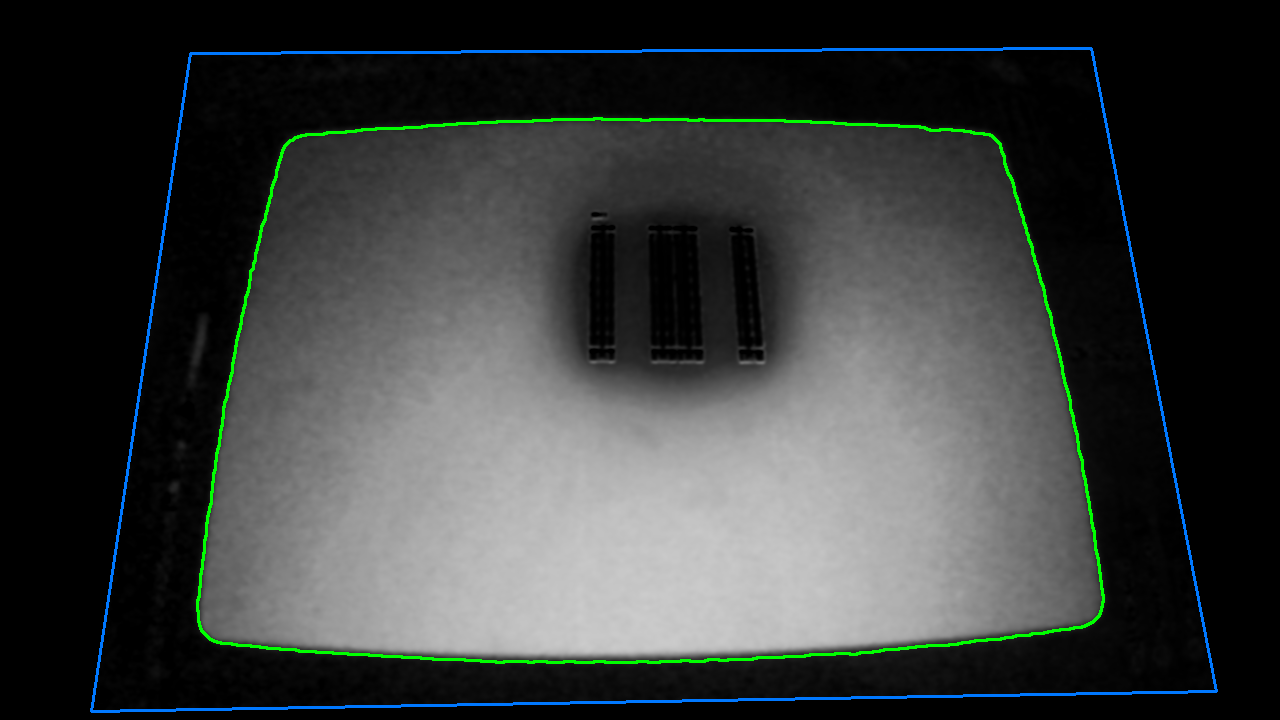
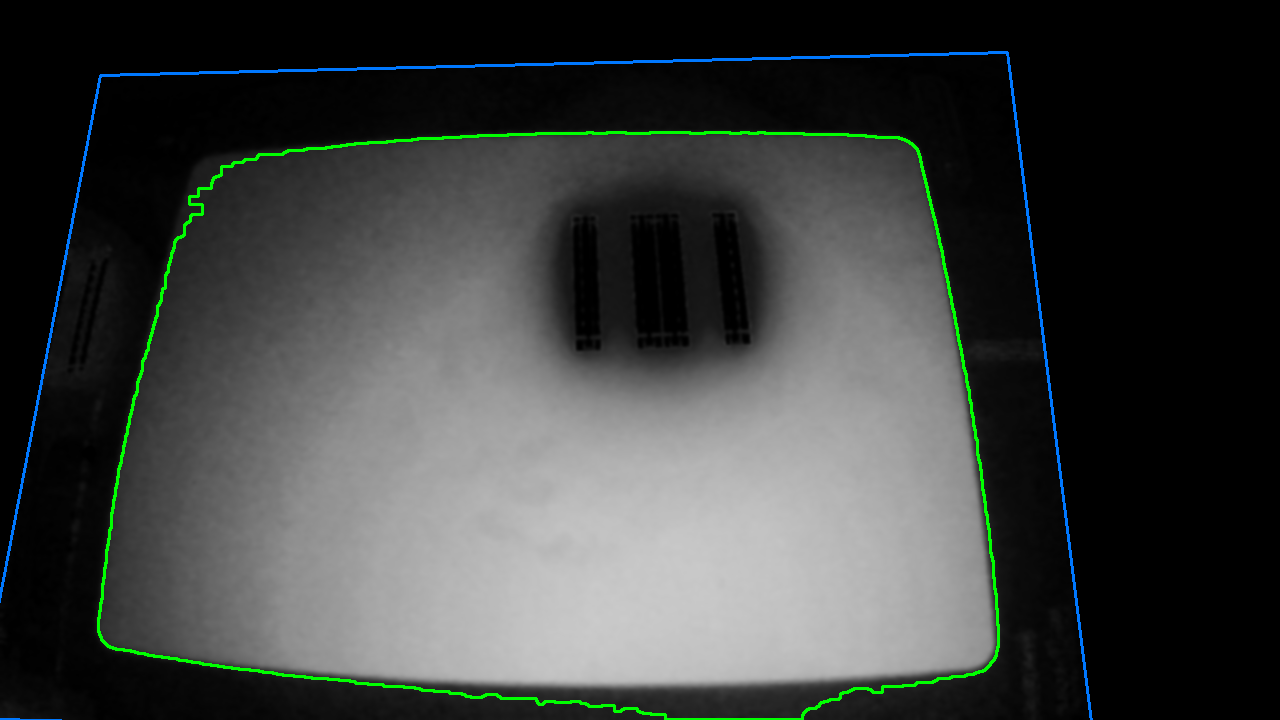
feature/added-magnet
Magneet toegevoegd in het speelveld voor extra uitdaging

Changed region(s): [[0.0625, 0.1528, 0.9375, 1.0], [0.4375, 0.275, 0.6562, 0.5806], [0.0625, 0.0611, 0.8438, 0.1222]]

diff --git a/People Manager/Low Fidelity/index.html b/People Manager/Low Fidelity/index.html
@@ -123,19 +123,19 @@ const W=792, H=1152, T=72;
 //  4: kort 420,180,0 · lang 140,380,15 · kort 580,820,30
 const ZONES=[
  {n:'Level 1',inv:{},spawn:[396,-10],
-  water:[],cps:[['c1',546,340],['c2',156,720],['c3',78,960]],
+  water:[],cps:[['c1',546,340],['c2',156,720],['c3',78,960]], mags:[[640,830,170]],
   walls:[[619,256,180,18,25],[527,616,120,18,0]],
   end:{r:[22,1040,300,90],n:'Finish',ic:'🏁'}},
  {n:'Level 2',inv:{},spawn:[396,-10],
-  water:[],cps:[['c1',246,340],['c2',636,720],['c3',714,960]],
+  water:[],cps:[['c1',246,340],['c2',636,720],['c3',714,960]], mags:[[152,830,170]],
   walls:[[174,255,180,18,-25],[212,499,120,18,0],[534,287,18,120,0]],
   end:{r:[470,1040,300,90],n:'Finish',ic:'🏁'}},
  {n:'Level 3',inv:{},spawn:[300,-10],
-  water:[],cps:[['c1',465,360],['c2',465,700],['c3',676,960]],
+  water:[],cps:[['c1',465,360],['c2',465,700],['c3',676,960]], mags:[[170,560,170]],
   walls:[[571,299,140,18,25],[430,577,18,120,0],[615,716,120,18,0]],
   end:{r:[470,1040,300,90],n:'Finish',ic:'🏁'}},
  {n:'Level 4',inv:{},spawn:[396,-10],
-  water:[],cps:[['c1',198,320],['c2',707,640],['c3',688,940]],
+  water:[],cps:[['c1',198,320],['c2',707,640],['c3',688,940]], mags:[[640,260,150],[200,860,170]],
   walls:[[640,560,160,18,0],[100,240,180,18,-25],[582,597,120,18,0],[168,460,200,18,0]],
   end:{r:[440,1040,300,90],n:'Finish',ic:'🏁'}}
 ];
@@ -156,11 +156,16 @@ const SOLID_PAD=6, BORDER=16; // SOLID_PAD: half the width of a person; BORDER: 
 // (glance: extra launch angle towards 90° for edge hits); every person gets its own height/speed/curve (vary).
 const BOUNCE={on:true, hop:340, gravity:800, curve:2.9, curveAngle:8, curveSpread:10, airSpeed:290, glance:55, vary:.1, border:.28}; // muisversie: iets meer bounce (was hop 260, curve 2.6, airSpeed 240, border .2); weinig willekeur (spread 10, vary .1) zodat een route voorspelbaar is
 const HOP_LIFT=.75; // how far a jumping person is drawn above their floor position (z * HOP_LIFT); used by drawing and checkpoints
+// Magnets (mags per level: [x, y, range]): pull every person within range towards the magnet, stronger the closer
+// they get (pull * (1 - d/range)^2 px/s). Whoever comes within `core` px is caught: sucked in and counted as verdwaald.
+// They lie off the intended routes, so a good route only gets bent a little; a stray person is caught.
+// index.html?nomagnets switches them off (for comparing / testing).
+const MAGNET={on:!/[?&]nomagnets\b/.test(location.search), pull:520, core:24, suck:.6};
 const GOAL=10, R_TRI=34, R_ROL=30, R_CUBE=30, R_CP=42, PLANK_L=160, PLANK_W=48;
 const SHIRTS=['#E8453C','#2F7FD1','#23A99A','#F2A100','#7A5CFA','#E8457A','#3A9D4E'];
 const SKIN=['#F2C9A0','#D9A27A','#A8704A','#7A4E2E','#F5D6B8'];
 // lastTouch=-1e9: de game start als inactief (wave blijft 1, geen meldingen) tot iemand iets doet
-let zoneArrived=0, zoneFull=0, zoneFill=[0,0,0], wave=null, solids=[], solidsVer=0, Z, zi, blocks, people, spawnT, tool=null, inv, cps, zoneT=0, totals, celebrate=0, lastTouch=-1e9, round=1, bid=0, bg=null, drag=null;
+let mags=[], zoneArrived=0, zoneFull=0, zoneFill=[0,0,0], wave=null, solids=[], solidsVer=0, Z, zi, blocks, people, spawnT, tool=null, inv, cps, zoneT=0, totals, celebrate=0, lastTouch=-1e9, round=1, bid=0, bg=null, drag=null;
 const cv=document.getElementById('cv'), $=id=>document.getElementById(id);
 // Rendering is done by Phaser (scene `Hall` below). The drawing helpers (stand, endpoint, entrance, wood, person, ...)
 // draw into `ctx`, which the scene points at the canvas of a Phaser texture while it builds that texture.
@@ -223,7 +228,7 @@ function knock(){ const c=ac(); if(!c) return; [0,.06].forEach((t,i)=>{ const o=
 document.querySelectorAll('.how .bi').forEach(el=>el.innerHTML=blockSVG(el.dataset.b));
 
 const rad=a=>a*Math.PI/180;
-function newTotals(){ return {score:0,out:0,lost:0,stray:0,cases:[],fill:[0,0,0],arenas:0,start:performance.now()}; }
+function newTotals(){ return {score:0,out:0,lost:0,stray:0,mag:0,cases:[],fill:[0,0,0],arenas:0,start:performance.now()}; }
 
 // Dark mode: dark floor, muted light surfaces (no large white areas: those would look like the white paper blocks).
 const DARK=!/[?&]light\b/.test(location.search);
@@ -239,9 +244,21 @@ function makeBg(){ // floor with seams, mats at start and finish
   const [sx]=Z.spawn, [ex,ey,ew,eh]=Z.end.r;
   g.fillStyle='#22344F'; g.fillRect(sx-70,0,140,80); g.beginPath(); g.roundRect(ex-26,ey-26,ew+52,eh+52,14); g.fill();
   g.strokeStyle='rgba(255,255,255,.12)'; g.lineWidth=2; g.strokeRect(sx-62,4,124,72);
+  for(const m of mags) drawMagnet(g,m);
   for(const w of solids) drawSolid(g,w); // field border and the level's walls (not white: the camera must not see them as blocks)
   return c;
 }
+function drawMagnet(g,m){ // range (faint purple disc + dashed edge) and a red horseshoe magnet; no white: the camera sees white as a block
+  g.save(); g.translate(m.x,m.y);
+  const rg=g.createRadialGradient(0,0,MAGNET.core,0,0,m.r); rg.addColorStop(0,'rgba(122,92,250,.28)'); rg.addColorStop(1,'rgba(122,92,250,0)');
+  g.fillStyle=rg; g.beginPath(); g.arc(0,0,m.r,0,7); g.fill();
+  g.strokeStyle='rgba(122,92,250,.45)'; g.lineWidth=2; g.setLineDash([6,8]); g.beginPath(); g.arc(0,0,m.r,0,7); g.stroke(); g.setLineDash([]);
+  g.fillStyle='rgba(0,0,0,.3)'; g.beginPath(); g.arc(2,4,MAGNET.core+4,0,7); g.fill();
+  g.fillStyle='#3A2F5E'; g.beginPath(); g.arc(0,0,MAGNET.core+4,0,7); g.fill();
+  g.lineCap='butt'; g.lineWidth=11; g.strokeStyle='#E8453C';
+  g.beginPath(); g.arc(0,-3,11,Math.PI,0); g.lineTo(11,10); g.moveTo(-11,-3); g.lineTo(-11,10); g.stroke();
+  g.fillStyle='#9AA3AF'; g.fillRect(-16.5,6,11,7); g.fillRect(5.5,6,11,7);
+  g.restore(); }
 function drawSolid(g,w){ // a wall: concrete-like strip with a lighter top edge and a small shadow
   g.save(); g.translate(w.x,w.y); g.rotate(w.ar);
   g.fillStyle='rgba(0,0,0,.25)'; g.fillRect(-w.hw+3,-w.hh+4,w.hw*2,w.hh*2);
@@ -287,19 +304,19 @@ function entrance(t){ const [sx]=Z.spawn;
   ctx.fillStyle='#9AA3AF'; [-40,0,40].forEach(dx=>{ ctx.fillRect(sx+dx-2,64,4,16); }); }
 function loadZone(i){ toastWave=null; /* new level: show the per-person messages again for its first played wave */
   zi=i; Z=ZONES[i]; blocks=[]; people=[]; spawnT=0; inv={...Z.inv}; zoneT=0; cps={}; zoneArrived=0; zoneFull=0; zoneFill=[0,0,0];
-  solids=buildSolids(); solidsVer++; bg=makeBg(); wave=newWave(1);
+  mags=MAGNET.on?(Z.mags||[]).map(([x,y,r])=>({x,y,r})):[]; solids=buildSolids(); solidsVer++; bg=makeBg(); wave=newWave(1);
   for(const [k,x,y] of Z.cps) cps[k]={x,y,n:0,done:false};
   $('zone').textContent=Z.n+(round>1?` · ronde ${round}`:''); renderTray(); renderCases();
   if(VIEW.scene) VIEW.scene.buildZone();
 }
-function newWave(no){ return {no, spawned:0, t:0, lastSpawn:0, pause:0, hits:{}, taken:{}, st:0, stats:{fill:[0,0,0],lost:0}}; }
+function newWave(no){ return {no, spawned:0, t:0, lastSpawn:0, pause:0, hits:{}, taken:{}, st:0, stats:{fill:[0,0,0],lost:0,mag:0}}; }
 function waveTick(dt){ // spawns the people of the current wave, then waits for them before the next wave
   if(wave.pause>0){ wave.pause-=dt; if(wave.pause<=0){ const idle=!isActive(); wave=newWave(idle?1:wave.no+1); for(const cp of Object.values(cps)){ cp.n=0; cp.done=false; } spawnT=0;  } return; }
   wave.t+=dt;
   if(wave.spawned<WAVE.size){ spawnT-=dt; while(spawnT<=0&&wave.spawned<WAVE.size){ if(!spawn()) { spawnT=.1; break; } wave.spawned++; wave.lastSpawn=wave.t; spawnT+=WAVE.every; } return; }
   if(!people.some(p=>p.W===wave)||wave.t-wave.lastSpawn>WAVE.maxWait){ const f=wave.stats.fill;
-    const res=wave.stats.lost?'is verdwaald':f[2]?'is vol aangekomen':f[1]?'is halfvol aangekomen':f[0]?'is leeg aangekomen':'is weg';
-    if(waveToasts(wave)) toast(`<i>🚶</i><div>Persoon ${res}<small>${f[2]?'Goed gedaan!':'Probeer alle 3 de checkpoints te halen'}</small></div>`);
+    const res=wave.stats.mag?'is door een magneet gegrepen':wave.stats.lost?'is verdwaald':f[2]?'is vol aangekomen':f[1]?'is halfvol aangekomen':f[0]?'is leeg aangekomen':'is weg';
+    if(waveToasts(wave)) toast(`<i>🚶</i><div>Persoon ${res}<small>${f[2]?'Goed gedaan!':wave.stats.mag?'Houd de route uit de buurt van de magneet':'Probeer alle 3 de checkpoints te halen'}</small></div>`);
     wave.pause=WAVE.pause; }
 }
 function inRect(x,y,[rx,ry,rw,rh]){ return x>=rx&&x<=rx+rw&&y>=ry&&y<=ry+rh; }
@@ -506,12 +523,23 @@ function flowMove(pp,dt){
     pp.a+=Math.max(-m,Math.min(m,d*Math.min(1,8*dt))); }
   pp.ph+=dt*Math.max(sp,15)/9;
 }
+// ---- Magnets ----
+function magnetPull(pp,dt){ // returns true when the person is caught
+  for(const m of mags){ const dx=m.x-pp.x, dy=m.y-pp.y, d=Math.hypot(dx,dy); if(d>m.r) continue;
+    if(d<MAGNET.core){ pp.mag=m; pp.magT=0; pp.z=0; pp.vz=0; pp.bounceCurve=0; tone(196,.25,'sawtooth',.03); return true; }
+    const k=1-d/m.r, v=MAGNET.pull*k*k*dt; pp.x+=dx/d*v; pp.y+=dy/d*v; }
+  return false; }
+function magnetSuck(pp,dt){ // caught: spirals into the magnet and disappears, counts as verdwaald
+  const m=pp.mag; pp.magT+=dt; const k=Math.min(1,dt*9); pp.x+=(m.x-pp.x)*k; pp.y+=(m.y-pp.y)*k; pp.ph+=dt*30;
+  pp.alpha=Math.max(0,1-pp.magT/MAGNET.suck);
+  if(pp.magT>=MAGNET.suck){ pp.gone=true; if(!isActive()) return; totals.lost++; totals.mag++; pp.W.stats.lost++; pp.W.stats.mag++; } }
 function update(dt){
   zoneT+=dt; waveTick(dt);
   if(FLOW.on) flowPrepare();
   for(const pp of people){
     if(pp.fall>0){ pp.fall+=dt; if(pp.fall>.8) pp.gone=true; continue; }
     if(celebrate>0){ pp.alpha-=dt*1.4; if(pp.alpha<=0){ pp.gone=true; continue; } }
+    if(pp.mag){ magnetSuck(pp,dt); continue; }
     if(FLOW.on) flowMove(pp,dt); else { // bounce movement (default): walk down, hop and curve off every wall
     if(pp.bounceCurve>0){
       pp.bounceCurve=Math.max(0,pp.bounceCurve-dt);
@@ -536,6 +564,7 @@ function update(dt){
       if(pp.z<=0){ pp.z=0; pp.landAt=performance.now(); pp.vz=0; } }
     if(pp.squash>0) pp.squash=Math.max(0,pp.squash-dt*4);
     }
+    if(magnetPull(pp,dt)) continue;
     for(const [k,cp] of Object.entries(cps)) if(!pp.seen[k] && atCheckpoint(pp,cp)){ pp.seen[k]=1; const Wv=pp.W;
       Wv.hits[k]=(Wv.hits[k]||0)+1; if(Wv===wave) cp.n=Wv.hits[k];
       if(!Wv.taken[k]&&Wv.hits[k]>=CP_NEED) takeCheckpoint(Wv,k); }
@@ -546,7 +575,7 @@ function update(dt){
     if(pp.x<-20||pp.x>W+20||pp.y<-40||pp.y>H+20){ pp.gone=true; if(!isActive()) continue; totals.stray++; totals.lost++; pp.W.stats.lost++; continue; } // missed the finish: counts as 'verdwaald'
   }
   people=people.filter(p=>!p.gone);
-  if(celebrate>0){ celebrate-=dt; if(celebrate<=0){ celebrate=0; const n=(zi+1)%ZONES.length; if(n===0) round++; loadZone(n); toast(`<i>➡</i>${ZONES[n].n}`); } }
+  if(celebrate>0){ celebrate-=dt; if(celebrate<=0){ celebrate=0; const n=(zi+1)%ZONES.length; if(n===0) round++; loadZone(n); toast(mags.length?`<i>🧲</i><div>${ZONES[n].n}<small>Pas op: ${mags.length>1?mags.length+' magneten trekken':'een magneet trekt'} mensen naar zich toe</small></div>`:`<i>➡</i>${ZONES[n].n}`); } }
   if(!isActive() && performance.now()-lastTouch>90000 && (zi!==0||blocks.length)){ /* no reset while a game is going on */ lastTouch=-1e9; round=1; totals=newTotals(); loadZone(0); }
 }
 function takeCheckpoint(Wv,k){ keepActive(); // CP_NEED people of wave Wv passed checkpoint k: the whole wave fills up
@@ -617,7 +646,8 @@ $('helpBtn').onclick=()=>{ touch();
    <ol class="steps">
     <li><b>1</b><span>Leg een wit blok op het speelveld. Mensen botsen ertegen en buigen af.</span></li>
     <li><b>2</b><span>Leid ze langs alle drie de checkpoints. Elk checkpoint vult ze verder: leeg, halfvol, vol.</span></li>
-    <li><b>3</b><span>Breng ze vol naar de finish. Bij ${GOAL} volle mensen ga je naar het volgende level.</span></li>
+    <li><b>3</b><span>Pas op voor magneten 🧲: ze trekken mensen naar zich toe. Komt iemand te dichtbij, dan zit hij vast.</span></li>
+    <li><b>4</b><span>Breng ze vol naar de finish. Bij ${GOAL} volle mensen ga je naar het volgende level.</span></li>
    </ol>
    <p>Blok verplaatsen of draaien: schuif het blok met je hand. Weghalen: pak het van het veld.</p>
    <button class="go" id="back">Spelen</button>`;
@@ -626,7 +656,7 @@ $('helpBtn').onclick=()=>{ touch();
 $('resBtn').onclick=()=>{ touch();
   const eff = totals.out+totals.lost ? Math.round(totals.out/(totals.out+totals.lost)*100) : 0;
   $('endBox').innerHTML=`<h2>Jouw stroom</h2><div class="big">${totals.score}</div>
-   <div class="fin"><div><b>${totals.out}</b>aangekomen</div><div><b>${totals.lost}</b>verdwaald</div><div><b>${eff}%</b>doorstroming</div><div><b>${totals.arenas}</b>levels voltooid</div><div><b>${wave.no}</b>personen op rij</div></div>
+   <div class="fin"><div><b>${totals.out}</b>aangekomen</div><div><b>${totals.lost}</b>verdwaald</div><div><b>${totals.mag}</b>gegrepen door een magneet</div><div><b>${eff}%</b>doorstroming</div><div><b>${totals.arenas}</b>levels voltooid</div><div><b>${wave.no}</b>personen op rij</div></div>
    <p>Aangekomen: <b>${totals.fill[2]}</b> vol · <b>${totals.fill[1]}</b> halfvol · <b>${totals.fill[0]}</b> leeg</p>
    <div class="take"><button class="go" id="takeBtn" aria-expanded="false">📱 Neem de game mee</button></div>
    <div class="qr" id="takeQr" hidden><img src="${QR_PHONE}" alt="QR-code naar People Manager op je telefoon"><p>Scan de QR-code en speel People Manager verder op je telefoon. Zo ontdek je ook wat Enversed Studios maakt.</p></div>
@@ -676,6 +706,7 @@ function makeHall(){ return class Hall extends Phaser.Scene{ // defined once Pha
     this.hintText=this.add.text(W/2,0,'',{fontFamily:'"Baloo 2",sans-serif',fontSize:'26px',fontStyle:'700',color:'#ffffff'}).setOrigin(.5);
     this.hint=this.add.container(0,0,[hb,this.hintText]).setDepth(9).setVisible(false);
     this.pulse=this.add.graphics().setDepth(4);
+    this.magG=this.add.graphics().setDepth(1); // magnet field: rings that shrink towards the magnet
     // bounce effects: ground shadow under jumping people, dashed jump path, impact ring
     for(let st=0;st<3;st++) canvasTexture(this,'gauge'+st,18,18,g=>{ // fill gauge above each person: leeg / halfvol / vol
       g.fillStyle='rgba(20,26,38,.55)'; g.beginPath(); g.arc(9,9,7.5,0,7); g.fill();
@@ -727,6 +758,8 @@ function makeHall(){ return class Hall extends Phaser.Scene{ // defined once Pha
     this.syncPeople(); this.syncBlocks(); this.updateStands(false); this.updateEndpoint(false);
     // destination ring
     const [x,y,w,h]=Z.end.r, p=(Math.sin(time/300)+1)/2; this.pulse.clear();
+    this.magG.clear(); for(const m of mags) for(let i=0;i<3;i++){ const ph=((time/1600)+i/3)%1, r=m.r-(m.r-MAGNET.core)*ph;
+      this.magG.lineStyle(3,0x7A5CFA,.5*Math.sin(ph*Math.PI)); this.magG.strokeCircle(m.x,m.y,r); }
     this.pulse.lineStyle(4,0xFFC93C,.35+p*.4); this.pulse.strokeRoundedRect(x-8-p*4,y-8-p*4,w+16+p*8,h+16+p*8,20);
     // banner + hint (kept out from under physical objects via freeY)
     if(celebrate>0){ this.celeb.setVisible(true).setAlpha(Math.min(1,celebrate*.8,(3-celebrate)*3)).setY(freeY(W,140)); } else this.celeb.setVisible(false);
@@ -748,7 +781,7 @@ function makeHall(){ return class Hall extends Phaser.Scene{ // defined once Pha
       if(!s.gg) s.gg=this.add.image(0,0,'gauge0').setDepth(5.2);
       const pop=pp.popAt?Math.max(0,1-(now-pp.popAt)/300):0; // short pop when the state changes
       s.gg.setVisible(FILL_GAUGE).setTexture('gauge'+(pp.st||0)).setPosition(pp.x,pp.y-lift-22).setScale(1+pop*.7).setAlpha(s.alpha);
-      s.setScale(1+pop*.35); // short pop of the person when their fill state changes
+      s.setScale((1+pop*.35)*(pp.mag?Math.max(.2,1-pp.magT/MAGNET.suck):1)); // short pop of the person when their fill state changes
       if(!s.sh) s.sh=this.add.image(0,0,'hopShadow').setDepth(4.6);
       if(z>.5){ s.sh.setVisible(true).setPosition(pp.x+2,pp.y+4).setScale(1-Math.min(.5,z/160)).setAlpha(.5*(1-Math.min(.7,z/140))); } else s.sh.setVisible(false);
       if(z>.5||(pp.landAt&&now-pp.landAt<600)){ (pp.trail||(pp.trail=[])).push([pp.x,pp.y-lift,now]); this.trailOwners.add(pp); }
@@ -898,7 +931,11 @@ window.CAM=(()=>{
   // the image center (radial model, k1/k2), then the perspective transform is applied. k1/k2 are found from the
   // calibration points themselves.
   function undist(c,x,y){ if(!c.k) return [x,y]; const A=c.aspect||16/9, u=(x-.5)*A, v=y-.5, r2=u*u+v*v, f=1+c.k[0]*r2+c.k[1]*r2*r2; return [.5+u*f/A,.5+v*f]; }
-  function applyCal(c,x,y){ const p=undist(c,x,y); return applyH(c,p[0],p[1]); }
+  function applyCal(c,x,y){ const p=undist(c,x,y), q=applyH(c,p[0],p[1]); if(!q||!c.res) return q;
+    // residual correction: what the lens model + perspective still get wrong at the measured grid points,
+    // interpolated (inverse distance) to every other point. Covers distortion the radial model cannot describe.
+    let sx=0, sy=0, sw=0; for(const [px,py,ex,ey] of c.res){ const w=1/((q[0]-px)**2+(q[1]-py)**2+400); sx+=w*ex; sy+=w*ey; sw+=w; }
+    return [q[0]+sx/sw, q[1]+sy/sw]; }
   function fitH(cam,canv){ // least-squares perspective transform (more than 4 points)
     const rows=[], rhs=[];
     cam.forEach(([x,y],k)=>{ const X=canv[k][0]/W, Y=canv[k][1]/H;
@@ -950,6 +987,9 @@ window.CAM=(()=>{
       for(let k2=best.k[1]-.08;k2<=best.k[1]+.081;k2+=.02){ const r=search(+k2.toFixed(3)); if(r&&r.rms<best.rms) best=r; }
       if(!(best.rms<noLens*.9)) best=tryK([0,0]); // only use the lens model when it clearly helps
     }
+    if(cam.length>=8){ // enough grid points: store the remaining error per point for applyCal
+      best.res=cam.map((p,i)=>{ const q=applyCal(best,p[0],p[1]); return q?[q[0],q[1],canv[i][0]-q[0],canv[i][1]-q[1]]:null; }).filter(Boolean);
+      best.rmsModel=best.rms; best.rms=0; }
     best.rmsNoLens=noLens; best.auto={cam,canv,aspect:A,...(Array.isArray(edges)&&edges.length?{edges}:{})}; best.lens=!!(best.k[0]||best.k[1]);
     return best;
   }
@@ -975,7 +1015,10 @@ window.CAM=(()=>{
   // reports where the camera sees it. Only the four corners of the field (clockwise from top left); no object
   // has to be placed. Four points give an exact perspective transform; the lens curvature follows from the outline
   // of the lit field afterwards (see edgeSides).
-  const ACAL_GRID=[[.06,.08],[.94,.08],[.94,.92],[.06,.92]];
+  // 4 columns x 5 rows over the whole field (corners first, so a stopped run still has a usable quad). The
+// interior points measure the lens curvature directly; with only the corners it had to be guessed from the outline.
+const ACAL_GRID=(()=>{ const xs=[.06,.35,.65,.94], ys=[.08,.29,.5,.71,.92], g=[[.06,.08],[.94,.08],[.94,.92],[.06,.92]];
+    for(const y of ys) for(const x of xs) if(!g.some(([a,b])=>a===x&&b===y)) g.push([x,y]); return g; })();
   const ACAL_SIZE=44, ACAL_SHOW=150, ACAL_TIMEOUT=7000;
   const acalTarget=i=>[ACAL_GRID[i][0]*W, ACAL_GRID[i][1]*H];
   function sendCal(o){ if(ws&&ws.readyState===1) ws.send(JSON.stringify({type:'cal',...o})); }
@@ -1014,7 +1057,7 @@ window.CAM=(()=>{
     return {px:Math.max(median(d),m[worst]), side:['linkerkant','rechterkant','bovenkant','onderkant'][worst], perSide:m.map(v=>Math.round(v)), n:per.map(a=>a.length)}; } // worst side counts: one wrong corner bends one or two sides
   function acalTick(now){ const s=calib; if(!s||!s.auto) return;
     if(!connected){ calib=null; if(typeof toast==='function') sysToast('<i>⚠</i>Kalibratie gestopt: camera niet verbonden'); return; }
-    if(!s.sent&&now-s.t>(s.phase==='black'?700:ACAL_SHOW)){ s.sent=true; s.sentT=now; sendCal(s.phase==='black'?{cmd:'ref'}:s.phase==='edges'?{cmd:'edges',i:ACAL_EDGES,quad:s.cam}:{cmd:'point',i:s.i}); } // quad: search area for the outline
+    if(!s.sent&&now-s.t>(s.phase==='black'?700:ACAL_SHOW)){ s.sent=true; s.sentT=now; sendCal(s.phase==='black'?{cmd:'ref'}:s.phase==='edges'?{cmd:'edges',i:ACAL_EDGES,quad:[0,1,2,3].every(k=>(s.gi||[]).includes(k))?[0,1,2,3].map(k=>s.cam[s.gi.indexOf(k)]):null}:{cmd:'point',i:s.i}); } // quad: search area for the outline
     if(s.sent&&now-s.sentT>ACAL_TIMEOUT){ // no answer
       if(s.phase==='black'){ calib=null; if(typeof toast==='function') sysToast('<i>⚠</i>Kalibratie: geen antwoord van camera_bridge.py (nieuwe versie nodig?)'); }
       else if(s.phase==='edges') acalFinish(); // old camera_bridge.py: calibrate without lens correction
@@ -1024,7 +1067,7 @@ window.CAM=(()=>{
     if(m.ref&&s.phase==='black'){ s.phase='point'; s.i=0; s.t=now; s.sent=false; return; }
     if(s.phase==='edges'&&m.i===ACAL_EDGES){ if(m.ok&&Array.isArray(m.edges)) s.edges=m.edges.filter(p=>Array.isArray(p)&&p.length===2&&num(p[0])&&num(p[1])); acalFinish(); return; }
     if(s.phase!=='point'||m.i!==s.i) return;
-    if(m.ok&&num(m.nx)&&num(m.ny)){ s.cam.push([m.nx,m.ny]); s.canv.push(acalTarget(s.i)); if(num(m.fw)&&num(m.fh)&&m.fh>0) s.aspect=m.fw/m.fh; acalNext(now); }
+    if(m.ok&&num(m.nx)&&num(m.ny)){ s.cam.push([m.nx,m.ny]); s.canv.push(acalTarget(s.i)); (s.gi||(s.gi=[])).push(s.i); if(num(m.fw)&&num(m.fh)&&m.fh>0) s.aspect=m.fw/m.fh; acalNext(now); }
     else if(++s.tries<2){ s.t=now; s.sent=false; } // try this point once more
     else { s.missed.push(String(m.reason||'niet gezien')); acalNext(now); }
   }
